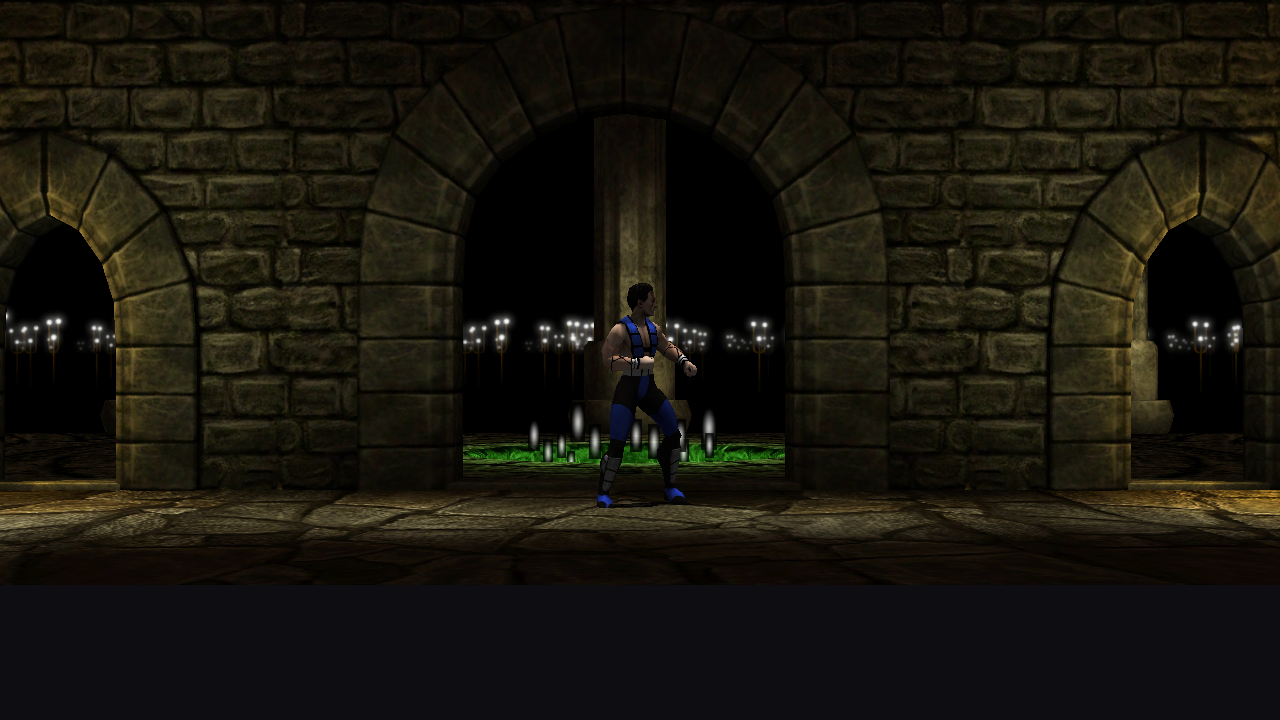
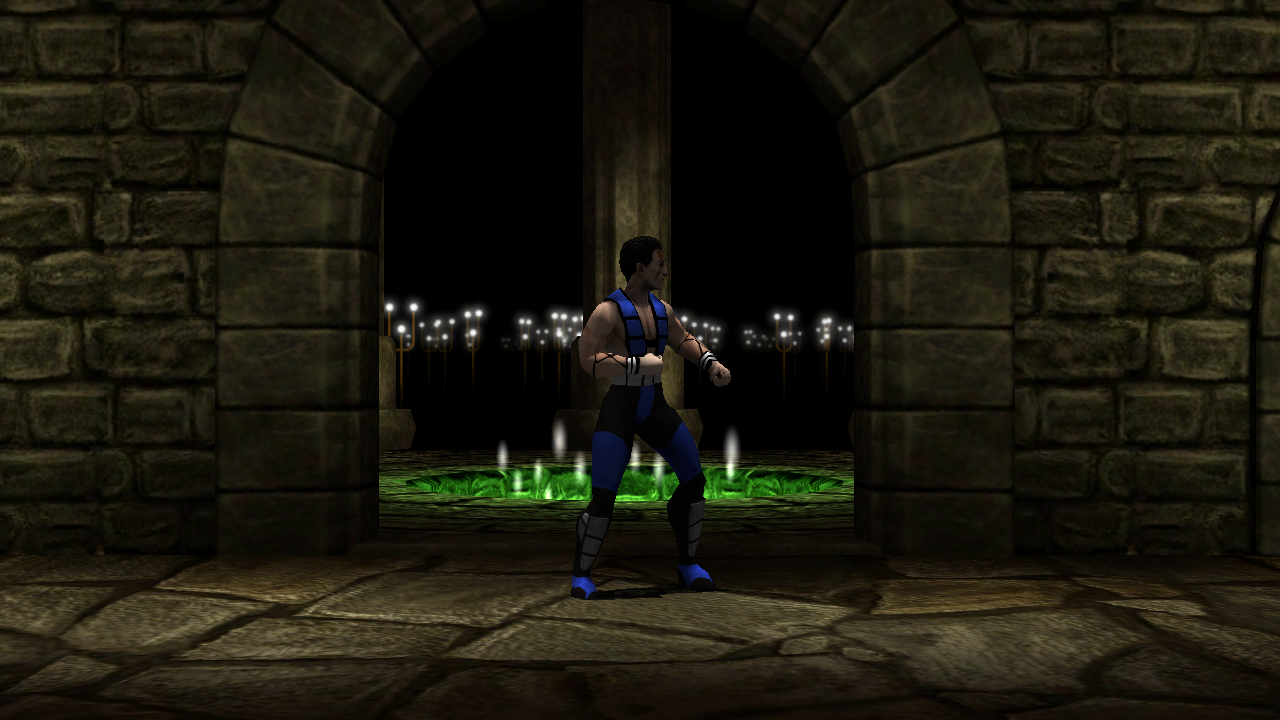
Transparency is ADDITIVE and unsorted, which the decomp had already warned about
FlushTranspMeshList opens with two calls and they settle the whole model:

    limeEnableAlphaBlending_Additive()
    limeDisableDepthWrites()

decomp/lime/RenderScene.c spells out the consequence -- additive blending is
commutative, so the list is drawn in insertion order with no depth sort anywhere
because it does not need one -- and adds that this "is the thing most likely to
be improved by mistake in a port: adding a back-to-front sort costs time and
changes nothing".

I added a back-to-front sort. It is gone.

The sort existed to stop Graveyard's sky painting over its moon, which is a
problem additive blending does not have: adding a dark sky to a bright moon
cannot dim it. The moon is still there with the sort removed.

The same mistake was making Balcony's torches wrong, and that is what a user
screenshot caught. TORCHFIRE2's key alpha runs 0.034 to 0.900, all under the
0.97 threshold, so it belongs on the deferred list -- and PARTICLE1 is a flame
painted on a black field with alpha 255 everywhere. Blended the normal way, or
drawn opaque, that black field is drawn too: a grey box around every flame.
Added, it contributes nothing and the flame glows.

So the model, now in one place for both the stage and the effects:

    alpha <  0.97   -> deferred list: additive, depth writes off, no sort
    alpha >= 0.97   -> opaque path, material chosen by mesh name:
                         ALPHA*  basic blend, depth writes off
[…]

diff --git a/runtime/demo.c b/runtime/demo.c
@@ -49,6 +49,32 @@
 #include <stdlib.h>
 #include <string.h>
 
+/* **The transparency model, in one place.**
+ *
+ * LIME_RenderScene hands any node under this alpha to AddToTranspMeshList, and
+ * FlushTranspMeshList draws that list with:
+ *
+ *      limeEnableAlphaBlending_Additive()
+ *      limeDisableDepthWrites()
+ *
+ * **Additive, and therefore unsorted.** Additive blending is commutative, so
+ * a+b+c is the same pixel in any order and the list is drawn in insertion order
+ * with no depth sort anywhere. decomp/lime/RenderScene.c says exactly that, and
+ * warns that adding a back-to-front sort is the thing a port is most likely to
+ * "improve" by mistake. This demo did precisely that, to stop Graveyard's sky
+ * painting over its moon -- a problem additive blending does not have, because
+ * adding a dark sky to a bright moon cannot dim it.
+ *
+ * It also fixes Balcony's torches. TORCHFIRE2's key alpha runs 0.034 to 0.900,
+ * so it belongs on this list; PARTICLE1 is a flame on a black field with alpha
+ * 255 everywhere, and drawing that opaque paints the black field too -- a grey
+ * box around every flame. Added, the black contributes nothing.
+ *
+ * The threshold is 0.97 and it was established by bisection against the
+ * recompiled original, not read from a literal: 0.9700 behaves as opaque and
+ * 0.9699 does not. */
+#define SCENE_OPAQUE_ALPHA 0.97f
+
 #define WIN_W 1280
 #define WIN_H 720
 
@@ -493,12 +519,10 @@ static void stage_draw(int frame)
          * from the live modelview matrix, so it stays right under --orbit as
          * well as under the gameplay camera.
          */
-        struct { int32_t node; float depth; } defer[256];
+        struct { int32_t node; } defer[256];
         int ndefer = 0;
-        float mv[16];
 
         glScalef(g_stage.sc.scale, g_stage.sc.scale, g_stage.sc.scale);
-        glGetFloatv(GL_MODELVIEW_MATRIX, mv);
 
         for (n = 0; n < g_stage.sc.num_nodes; n++) {
             const LimeSceneKey *key = lime_scene_key(&g_stage.sc, (int)n, frame);
@@ -517,18 +541,10 @@ static void stage_draw(int frame)
             if (m->vert_count <= 0 || is_event_marker(m->name)) continue;
             if (g_only && !strstr(m->name, g_only)) continue;
 
-            /* Translucent: defer it. `ATST` is NOT translucent -- alpha test
-             * discards fragments outright, so it takes part in the depth
-             * buffer like any solid surface. */
-            if (!is_atst(m->name) &&
-                (is_alpha_material(m->name) || key->alpha < 1.0f)) {
-                if (ndefer < (int)(sizeof(defer) / sizeof(defer[0]))) {
-                    const float *t = g_stage.sc.palette[key->palette_index].translation;
-                    defer[ndefer].node  = n;
-                    defer[ndefer].depth = mv[2] * t[0] + mv[6] * t[1] +
-                                          mv[10] * t[2] + mv[14];
-                    ndefer++;
-                }
+            /* Under the threshold it goes on the list, whatever it is named. */
+            if (key->alpha < SCENE_OPAQUE_ALPHA) {
+                if (ndefer < (int)(sizeof(defer) / sizeof(defer[0])))
+                    defer[ndefer++].node = n;
                 continue;
             }
 
@@ -550,27 +566,14 @@ static void stage_draw(int frame)
             glPopMatrix();
         }
 
-        /* Furthest first. View space looks down -Z, so the furthest node has
-         * the most negative depth. */
-        {
-            int i, j;
-            for (i = 1; i < ndefer; i++) {
-                float d = defer[i].depth;
-                int32_t nd = defer[i].node;
-                for (j = i - 1; j >= 0 && defer[j].depth > d; j--)
-                    defer[j + 1] = defer[j];
-                defer[j + 1].node  = nd;
-                defer[j + 1].depth = d;
-            }
-        }
-
+        /* No sort: additive is commutative. See SCENE_OPAQUE_ALPHA. */
         glDisable(GL_ALPHA_TEST);
         glDepthMask(GL_FALSE);
         glEnable(GL_BLEND);
-        /* SRC_ALPHA / ONE_MINUS_SRC_ALPHA is not a guess: it is what
-         * limeEnableAlphaBlending_Basic was MEASURED to do, by driving the
-         * recompiled original and recording the GL call stream. */
-        glBlendFunc(GL_SRC_ALPHA, GL_ONE_MINUS_SRC_ALPHA);
+        /* SRC_ALPHA / ONE is what limeEnableAlphaBlending_Additive was MEASURED
+         * to do, by driving the recompiled original and recording the GL call
+         * stream. See docs/RENDERSCENE-SIGNATURE.md. */
+        glBlendFunc(GL_SRC_ALPHA, GL_ONE);
 
         for (n = 0; n < ndefer; n++) {
             const LimeSceneKey *key =
@@ -769,7 +772,13 @@ static void mist_draw(double now)
          * PARTICLE1 is fully opaque to match. Forcing blending on every effect
          * mesh, which this function used to do, is wrong for exactly that case
          * and quietly stops the torches writing depth. */
-        if (is_alpha_material(m->name)) {
+        if (key->alpha < SCENE_OPAQUE_ALPHA) {
+            /* the deferred list: additive, depth writes off */
+            glDisable(GL_ALPHA_TEST);
+            glEnable(GL_BLEND);
+            glBlendFunc(GL_SRC_ALPHA, GL_ONE);
+            glDepthMask(GL_FALSE);
+        } else if (is_alpha_material(m->name)) {
             glDisable(GL_ALPHA_TEST);
             glEnable(GL_BLEND);
             glBlendFunc(GL_SRC_ALPHA, GL_ONE_MINUS_SRC_ALPHA);
@@ -779,15 +788,10 @@ static void mist_draw(double now)
             glAlphaFunc(GL_GREATER, 0.9f);
             glEnable(GL_ALPHA_TEST);
             glDepthMask(GL_TRUE);
-        } else if (key->alpha >= 1.0f) {
+        } else {
             glDisable(GL_ALPHA_TEST);
             glDisable(GL_BLEND);
             glDepthMask(GL_TRUE);
-        } else {
-            glDisable(GL_ALPHA_TEST);
-            glEnable(GL_BLEND);
-            glBlendFunc(GL_SRC_ALPHA, GL_ONE_MINUS_SRC_ALPHA);
-            glDepthMask(GL_FALSE);
         }
         glColor4f(1.0f, 1.0f, 1.0f, key->alpha);
 
